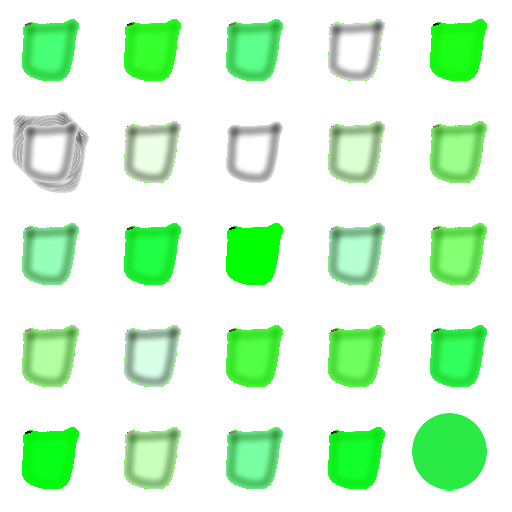
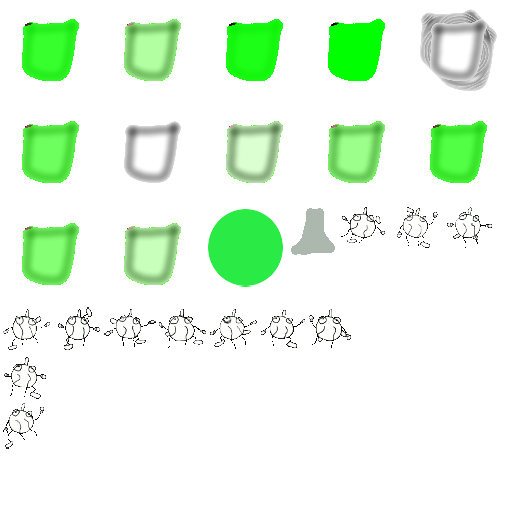
- good start for walking animation

diff --git a/main.py b/main.py
@@ -33,7 +33,7 @@ class SneakGame(Widget):  # pylint: disable=too-many-instance-attributes
         super(SneakGame, self).__init__(**kwargs)
         self.gameworld.init_gameworld(
             ['renderer', 'rotate', 'position', 'steering', 'cymunk_physics',
-              'fear'],              
+              'fear', 'animation'],              
             callback=self.init_game)
 
         self.points = None
@@ -48,7 +48,21 @@ class SneakGame(Widget):  # pylint: disable=too-many-instance-attributes
 
     def init_game(self):
         self.setup_states()
+        self.load_models()
         self.advance_level(reset=True)
+
+    def load_models(self):
+        mm = self.gameworld.model_manager
+        for x in range(12):
+            mm.load_textured_rectangle('vertex_format_4f', 50., 50., 'person-walk-%02d'%x, 'person-walk-%02d'%x)
+
+        am = self.gameworld.animation_manager
+
+        animation_frames = [{'texture': 'person-walk-%02d'%x,
+                            'model': 'person-walk-%02d'%x,
+                            'duration': 50} 
+                                for x in range(12)]
+        am.load_animation('walk', 12, animation_frames)
 
     def advance_level(self, reset=False):
         self.levelnum += 1
@@ -83,17 +97,17 @@ class SneakGame(Widget):  # pylint: disable=too-many-instance-attributes
             return
 
         ent = self.gameworld.entities[self.person_eid]
-        if self.gameworld.state == 'fail' or currtime < self.grace_timestamp:
-            idx = int(currtime * 20) % 10
-            ent.renderer.texture_key = "person-grace-%s" % idx
-        elif ent.renderer.texture_key != 'person':
-            ent.renderer.texture_key = 'person'
+        # if self.gameworld.state == 'fail' or currtime < self.grace_timestamp:
+        #     idx = int(currtime * 20) % 10
+        #     ent.renderer.texture_key = "person-grace-%s" % idx
+        # elif ent.renderer.texture_key != 'person':
+        #     ent.renderer.texture_key = 'person'
 
     def setup_states(self):
         self.gameworld.add_state(state_name='main',
-                                 systems_added=['renderer', 'cymunk_physics', 'fear'],
+                                 systems_added=['renderer', 'cymunk_physics', 'fear', 'animation'],
                                  systems_removed=[], systems_paused=[],
-                                 systems_unpaused=['renderer', 'cymunk_physics', 'fear'],
+                                 systems_unpaused=['renderer', 'cymunk_physics', 'fear', 'animation'],
                                  screenmanager_screen='main')
 
         self.gameworld.add_state(state_name='fail',
@@ -126,8 +140,9 @@ class SneakGame(Widget):  # pylint: disable=too-many-instance-attributes
         self.person_eid = self.gameworld.init_entity(
                         *defedict({
                                 'renderer': {
-                                    'texture': 'person',
-                                    'size': (50, 50)
+                                    'texture': 'person-walk-00',
+                                    'model_key': 'person-walk-00',
+                                    'size': (50, 50),
                                 },
                                 'cymunk_physics': {'vel_limit': 10,
                                                    'col_shapes': [{
@@ -143,9 +158,10 @@ class SneakGame(Widget):  # pylint: disable=too-many-instance-attributes
                                                            'friction': 1.0
                                                         }]},
                                 'fear': {'attraction': 1000, 'nomove': True},
+                                'animation': {'name': 'walk', 'loop': True},
                              },
                              ['position', 'rotate', 'renderer', 'steering', 'fear',
-                              'cymunk_physics'])
+                              'cymunk_physics', 'animation'])
                        )
         self.camera.entity_to_focus = self.person_eid
         assert self.camera.focus_entity
